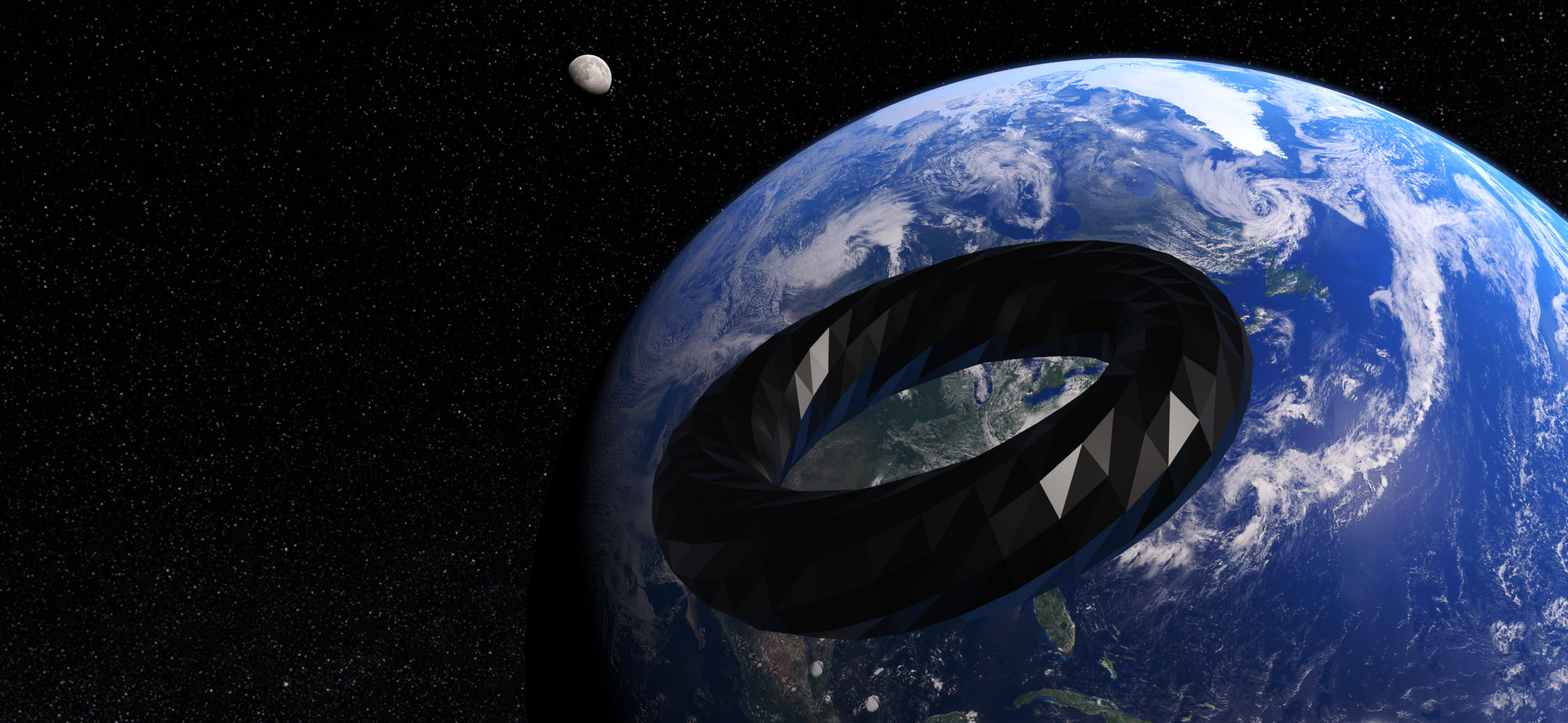
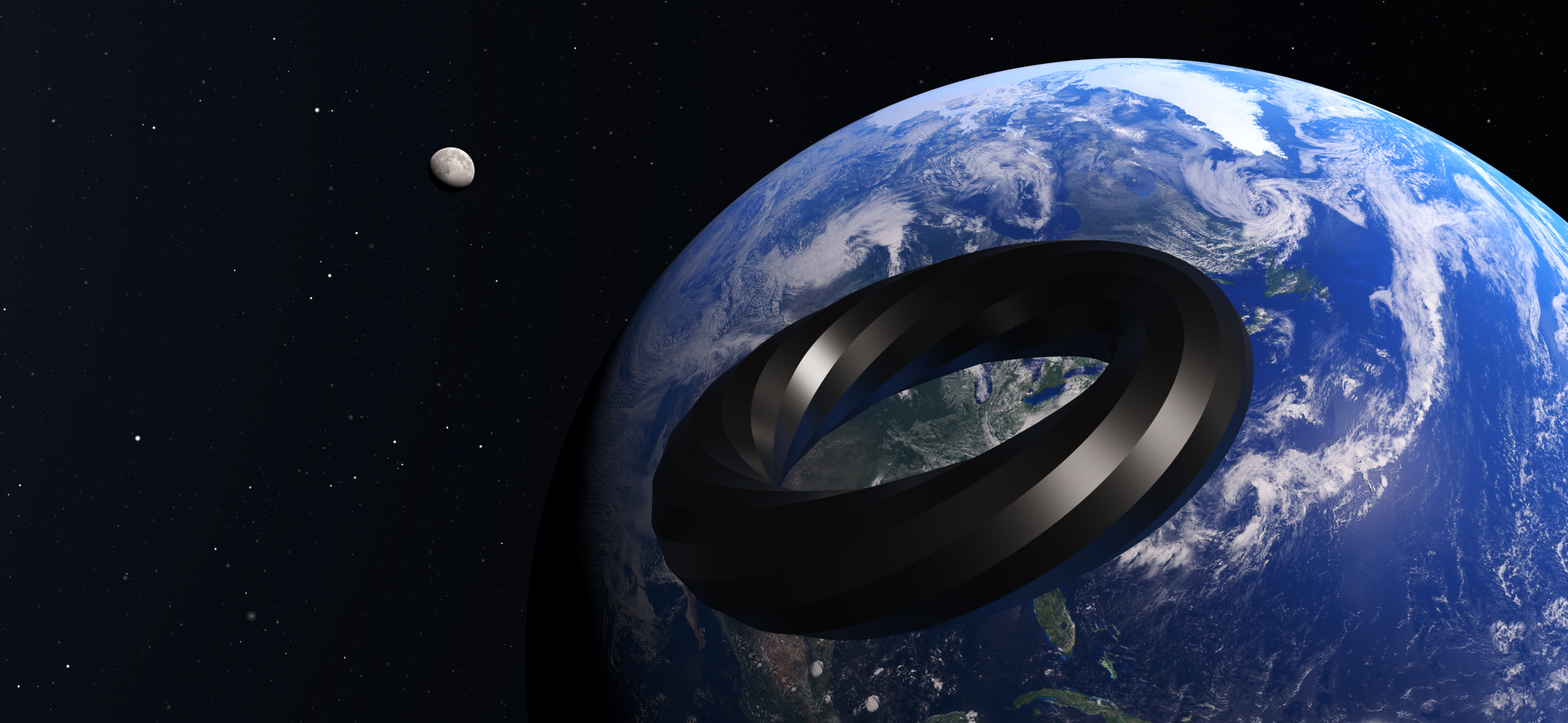
Adjust images

diff --git a/style/style.css b/style/style.css
@@ -73,7 +73,7 @@ body {
 }
 
 .background {
-    background: no-repeat url(./img/earth-torus_.jpg) center / cover, var(--clr-bg);
+    background: no-repeat url(./img/earth-torus.jpg) center / cover, var(--clr-bg);
 }
 
 a, a:active, a:link, a:visited {
